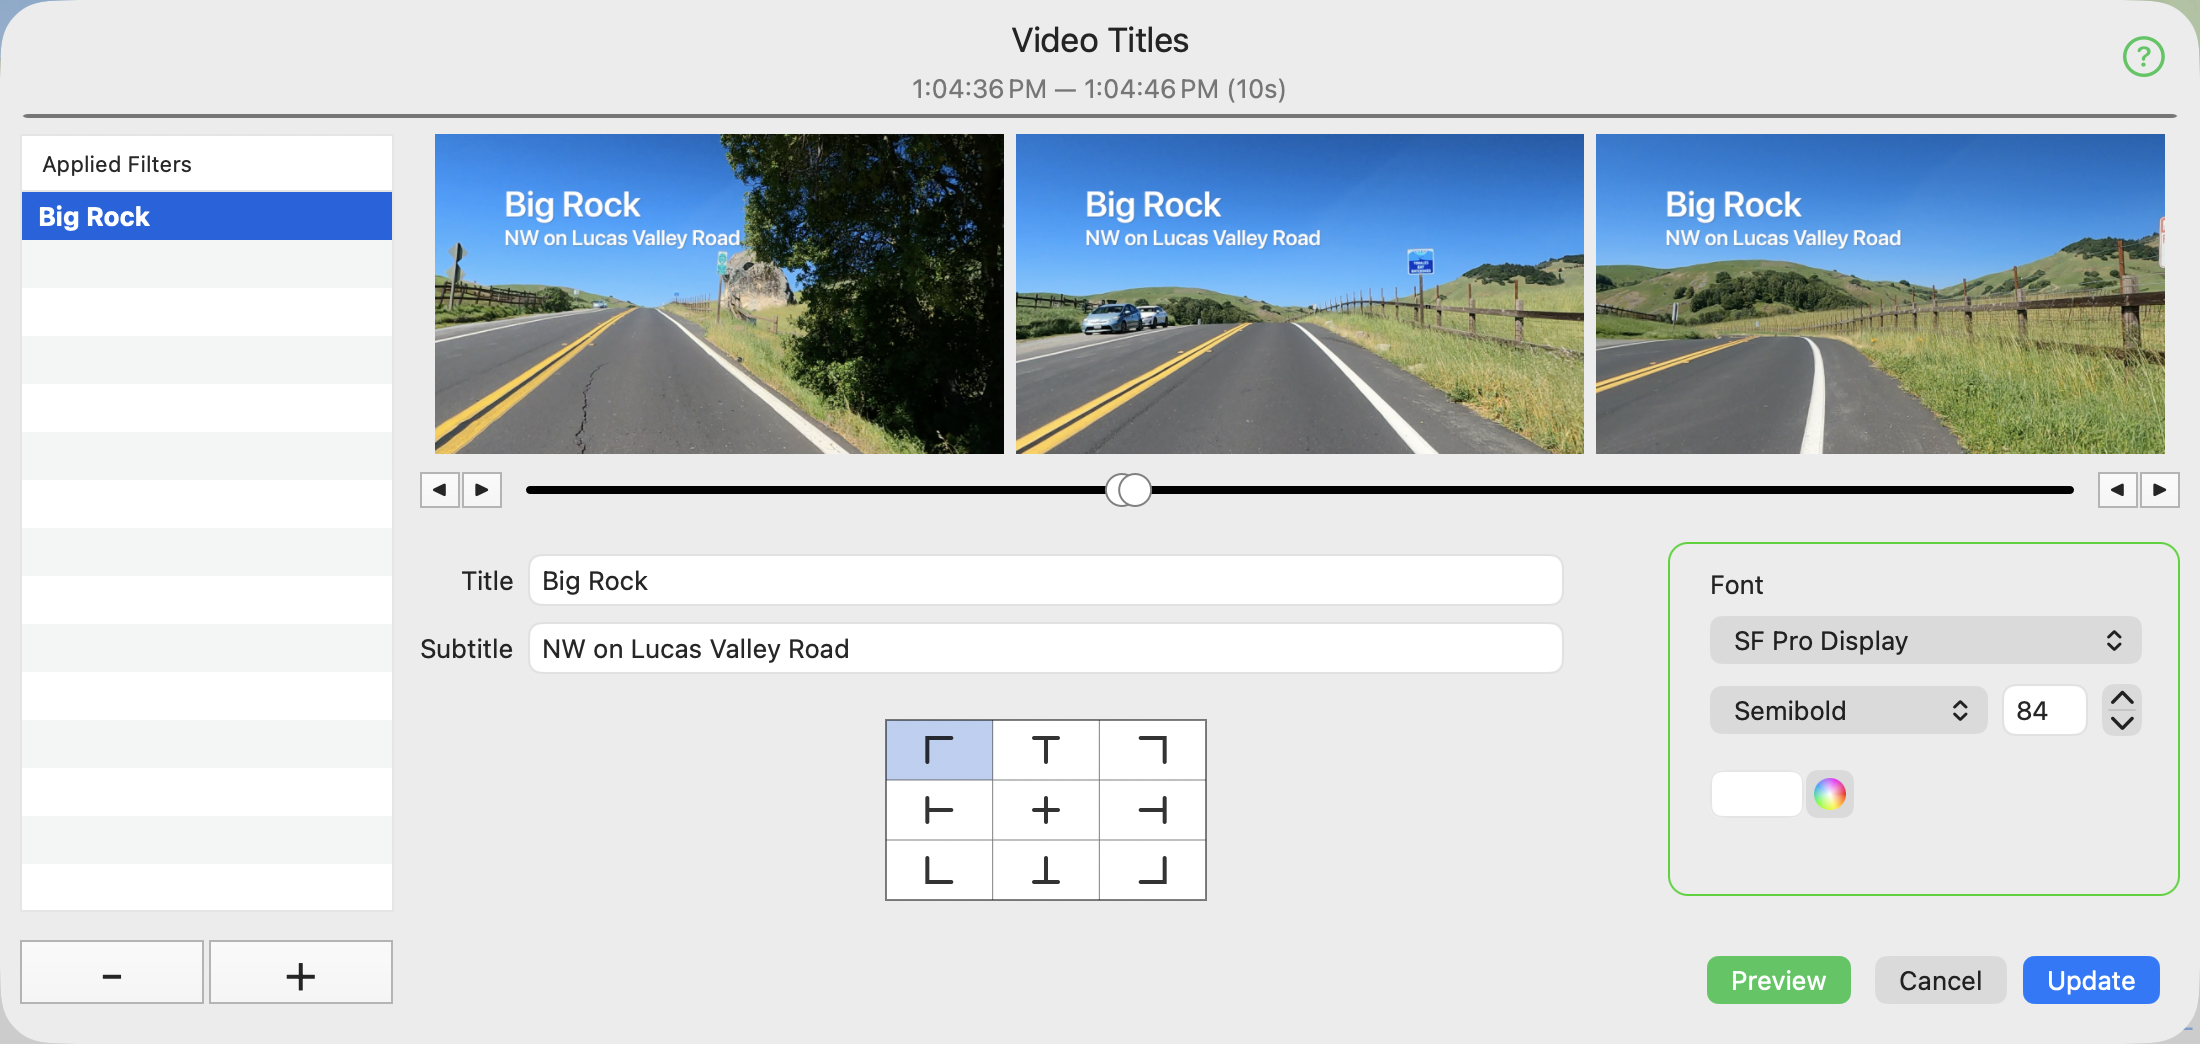
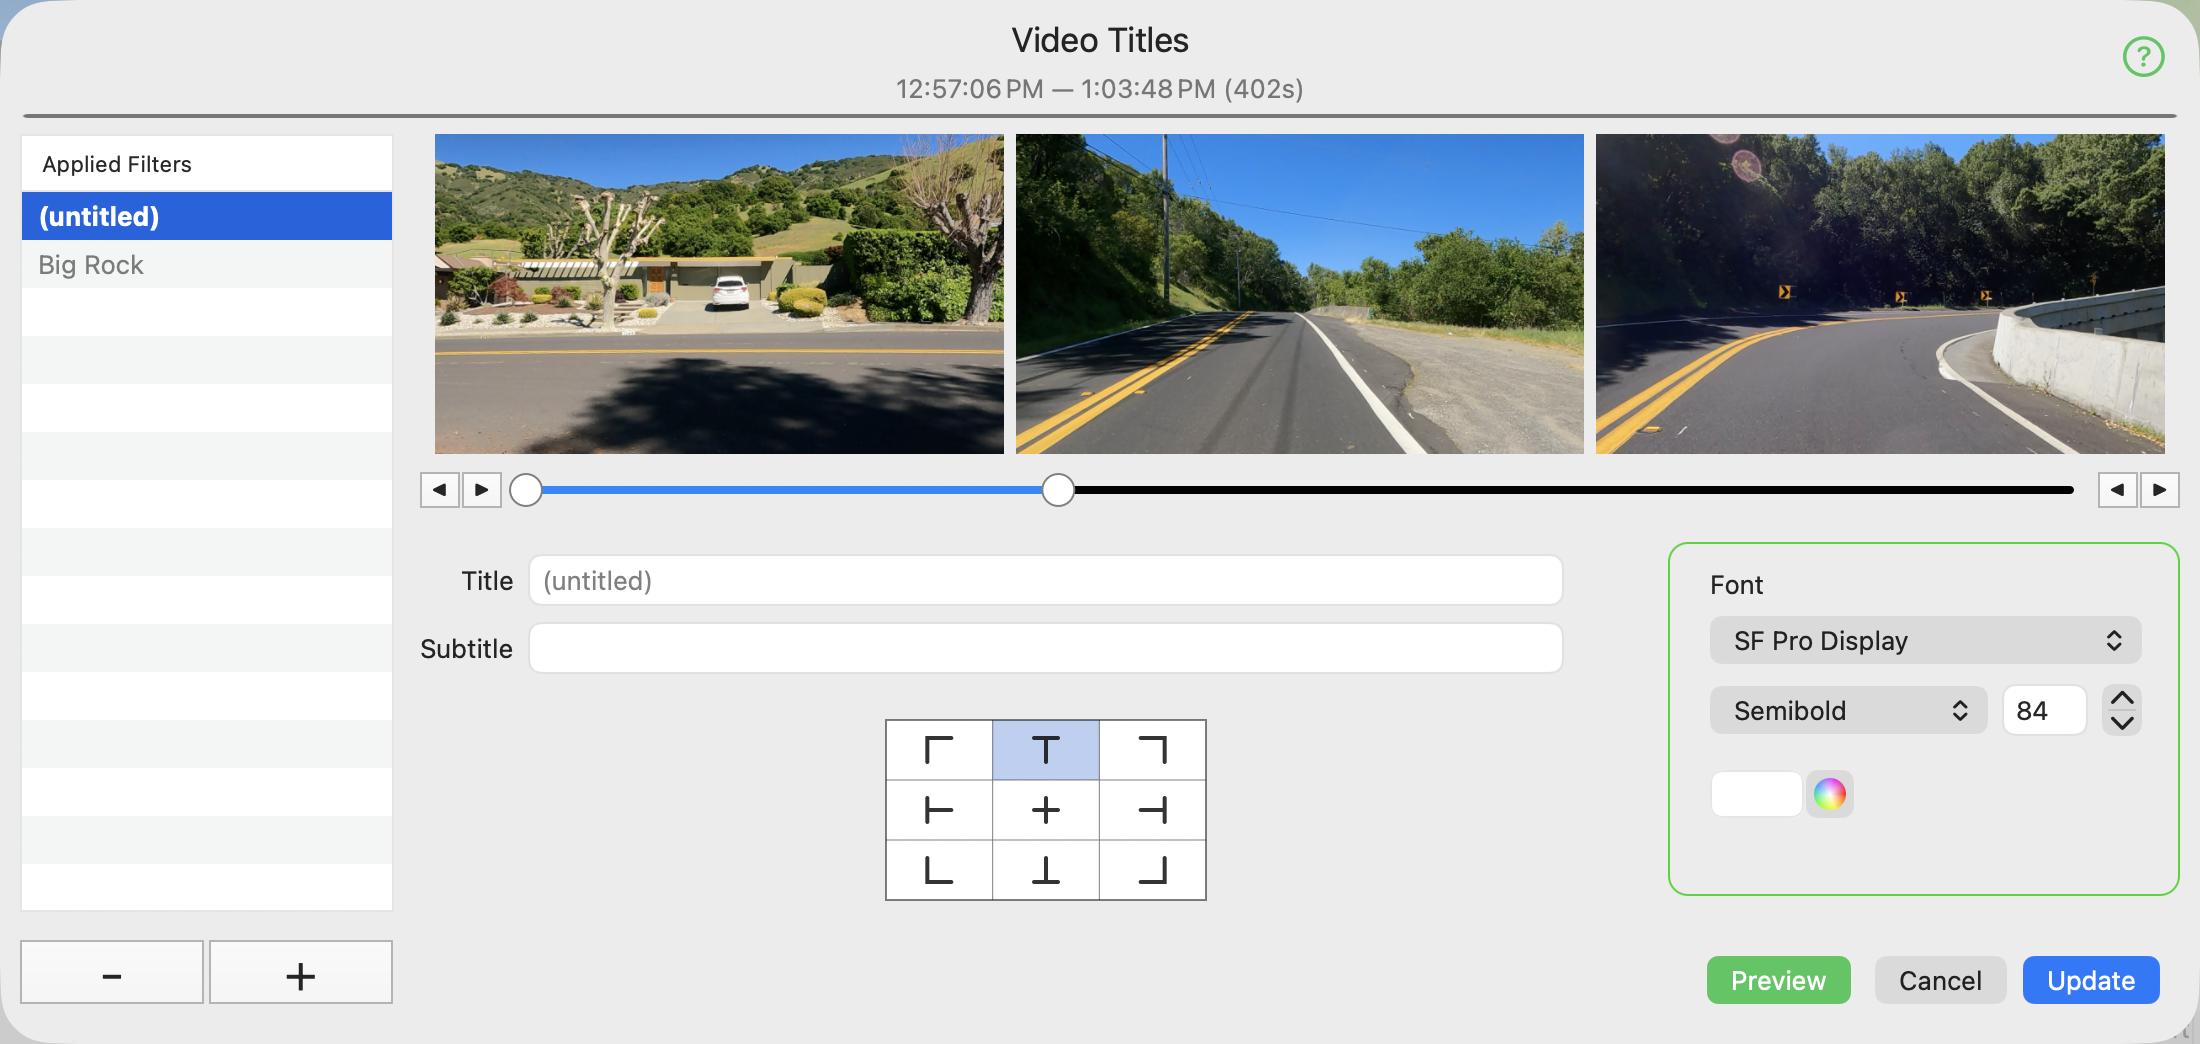
More GPX-V updating

diff --git a/GPX-V/main/index.html b/GPX-V/main/index.html
@@ -6,54 +6,54 @@
 <link rel="stylesheet" href="../tutorial.css">
 </head>
 <body>
-<a class="home" href="../index.html" title="Home"><img src="../home-icon.png" alt="Home"></a>
+<a class="home" href="../index.html" title="GPX-V Quick Reference Home"><img src="../home-icon.png" alt=""> GPX-V Quick Reference Home</a>
 <h1>GPX-V Main Window</h1>
 <p>This window is where your project comes together. Import video and GPX files, synchronize them,  apply filters, add titles, adjust speeds, and export synchronized video and gpx files.</p>
 <p>All actions are available through menu items, or through the action buttons at the bottom of the window.</p>
 <p>Move your pointer over the images below to see feature explanations.</p>
-<div class="tutorial" id="tutorial" style="aspect-ratio: 1320 / 882; max-width: 1100px;">
+<div class="tutorial" id="tutorial" style="aspect-ratio: 1579 / 890; max-width: 1100px;">
 <img src="screenshot.png" alt="Tutorial screenshot">
-<div class="hotspot topmost" id="item-0" data-index="0" data-title="The Apple Menu" data-explanation="The Apple menu" style="left:1.5152%; top:0.0000%; width:1.8939%; height:2.7211%;" title="The Apple Menu"></div>
-<div class="hotspot" id="item-1" data-index="1" data-title="The GPX-V Menu" data-explanation="shows About GPX-V, Settings..., Services, Hide GPX-V, Hide Others" style="left:3.4091%; top:0.0000%; width:4.0683%; height:2.7211%;" title="The GPX-V Menu"></div>
-<div class="hotspot" id="item-2" data-index="2" data-title="The File Menu" data-explanation="shows New, Open…, Open Recent, Import GPX..., Import Video..." style="left:7.4773%; top:0.0000%; width:2.5047%; height:2.7211%;" title="The File Menu"></div>
-<div class="hotspot" id="item-3" data-index="3" data-title="The Edit Menu" data-explanation="shows Undo, Redo, Cut, Copy Selected Rows, Paste" style="left:9.9820%; top:0.0000%; width:2.6787%; height:2.7211%;" title="The Edit Menu"></div>
-<div class="hotspot" id="item-4" data-index="4" data-title="The Format Menu" data-explanation="shows Font, Text" style="left:12.6607%; top:0.0000%; width:4.1627%; height:2.7211%;" title="The Format Menu"></div>
-<div class="hotspot" id="item-5" data-index="5" data-title="The Tools Menu" data-explanation="shows GPX, Video, Video &amp; GPX" style="left:16.8235%; top:0.0000%; width:3.3366%; height:2.7211%;" title="The Tools Menu"></div>
-<div class="hotspot" id="item-6" data-index="6" data-title="The View Menu" data-explanation="shows Show Tab Bar, Show All Tabs, Show Toolbar, Customize Toolbar…, Show Sidebar" style="left:20.1601%; top:0.0000%; width:3.1183%; height:2.7211%;" title="The View Menu"></div>
-<div class="hotspot" id="item-7" data-index="7" data-title="The Window Menu" data-explanation="shows Minimize, Minimize All, Zoom, Zoom All, Fill" style="left:23.2783%; top:0.0000%; width:4.5758%; height:2.7211%;" title="The Window Menu"></div>
-<div class="hotspot" id="item-8" data-index="8" data-title="The Help Menu" data-explanation="shows GPX-V Help, GPX-V Quick Reference" style="left:27.8542%; top:0.0000%; width:3.0298%; height:2.7211%;" title="The Help Menu"></div>
-<div class="hotspot" id="item-9" data-index="9" data-title="The GPX-V Document Window" data-explanation="displays video, map, elevation chart, trackpoint table, and document contents." style="left:1.5152%; top:8.1633%; width:96.9697%; height:89.5692%;" title="The GPX-V Document Window"></div>
-<div class="hotspot" id="item-10" data-index="10" data-title="The Video Player" data-explanation="plays the imported and merged video files." style="left:1.8939%; top:8.7302%; width:45.7576%; height:45.6916%;" title="The Video Player"></div>
-<div class="hotspot" id="item-11" data-index="11" data-title="The Video Filter Display" data-explanation="shows the application of video filters to the video. Click a filter to edit." style="left:5.3030%; top:52.1542%; width:38.9394%; height:1.3605%;" title="The Video Filter Display"></div>
-<div class="hotspot" id="item-12" data-index="12" data-title="Selected Video Frames" data-explanation="shows 1, 2, or 3 frames depending on how long the video selection is. First, middle, and last frames of the selection." style="left:20.5303%; top:41.7234%; width:8.4848%; height:9.0703%;" title="Selected Video Frames"></div>
-<div class="hotspot" id="item-13" data-index="13" data-title="The Selection Range Slider" data-explanation="can change the selected video and trackpoints. Slide, click or shift-click to change the selection." style="left:5.3030%; top:41.7234%; width:38.9394%; height:2.2676%;" title="The Selection Range Slider"></div>
-<div class="hotspot" id="item-14" data-index="14" data-title="The Route Map" data-explanation="displays your route." style="left:48.4091%; top:8.7302%; width:49.6970%; height:32.9932%;" title="The Route Map"></div>
-<div class="hotspot" id="item-15" data-index="15" data-title="The Elevation Chart" data-explanation="shows how your route changes elevation. Colors signal the gradient of the slope. Click to select a point along the route. Shift-click to select a range from the current selected point." style="left:48.4091%; top:41.7234%; width:49.6970%; height:12.6984%;" title="The Elevation Chart"></div>
-<div class="hotspot" id="item-16" data-index="16" data-title="The Map Type Control" data-explanation="switches between traffic and satellite views." style="left:89.3939%; top:10.4308%; width:4.9242%; height:2.7211%;" title="The Map Type Control"></div>
-<div class="hotspot" id="item-17" data-index="17" data-title="The Speed Change Control" data-explanation="shows any changes in speed that have been applied to the route. Click a filter to edit." style="left:49.1667%; top:52.1542%; width:48.1818%; height:1.3605%;" title="The Speed Change Control"></div>
-<div class="hotspot" id="item-18" data-index="18" data-title="The Trackpoint Table" data-explanation="lists the GPS trackpoints in order. Click a row to select the point, shift-click to select a range. Arrow keys work too. " style="left:45.0758%; top:55.6689%; width:52.9545%; height:36.3946%;" title="The Trackpoint Table"></div>
-<div class="hotspot" id="item-19" data-index="19" data-title="The Information View" data-explanation="shows information about the history of changes to your document, an analysis of any potential problems, and the current status of your document." style="left:1.8939%; top:55.5556%; width:42.3485%; height:36.6213%;" title="The Information View"></div>
-<div class="hotspot" id="item-20" data-index="20" data-title="The Information Option Control" data-explanation="displays the three classes of available information. Click to select the one you want to see." style="left:1.8939%; top:55.5556%; width:42.3485%; height:2.7211%;" title="The Information Option Control"></div>
-<div class="hotspot nofill" id="item-21" data-index="21" data-title="The Action Buttons" data-explanation="perform available actions. Grouped by video, video and GPS, and GPS." style="left:1.8939%; top:92.1769%; width:96.2121%; height:4.9887%;" title="The Action Buttons"></div>
-<div class="hotspot" id="item-22" data-index="22" data-title="The Import Video Button" data-explanation="imports one or more .mp4 video files" style="left:14.1288%; top:92.6304%; width:2.5758%; height:4.0816%;" title="The Import Video Button"></div>
-<div class="hotspot" id="item-23" data-index="23" data-title="The Remove Audio Button" data-explanation="deletes audio tracks" style="left:17.4621%; top:92.6304%; width:2.5758%; height:4.0816%;" title="The Remove Audio Button"></div>
-<div class="hotspot" id="item-24" data-index="24" data-title="The Trim From Start Button" data-explanation="trims from the start of the video until the first selected trackpoint" style="left:20.7955%; top:92.6304%; width:2.5758%; height:4.0816%;" title="The Trim From Start Button"></div>
-<div class="hotspot" id="item-25" data-index="25" data-title="The Trim Until End Button" data-explanation="trims from the last selected trackpoint until the end of the video" style="left:24.1288%; top:92.6304%; width:2.5758%; height:4.0816%;" title="The Trim Until End Button"></div>
-<div class="hotspot" id="item-26" data-index="26" data-title="The Video Filter Button" data-explanation="opens an editor to apply image filters to the selected video to compensate for shadows, glare, etc." style="left:27.4621%; top:92.6304%; width:2.5758%; height:4.0816%;" title="The Video Filter Button"></div>
-<div class="hotspot" id="item-27" data-index="27" data-title="The Titles Button" data-explanation="opens an editor to add text to the video for a selected segment" style="left:30.7955%; top:92.6304%; width:2.5758%; height:4.0816%;" title="The Titles Button"></div>
-<div class="hotspot" id="item-28" data-index="28" data-title="The Share Video Button" data-explanation="shares a frame or clip" style="left:34.1288%; top:92.6304%; width:2.5758%; height:4.0816%;" title="The Share Video Button"></div>
-<div class="hotspot" id="item-29" data-index="29" data-title="The Export Video Button" data-explanation="exports a syncrhonized .mp4 file" style="left:37.4621%; top:92.6304%; width:2.5758%; height:4.0816%;" title="The Export Video Button"></div>
-<div class="hotspot" id="item-30" data-index="30" data-title="The Speed Adjustment Button" data-explanation="opens an editor to apply speed adjustments to video and GPX simultaneously." style="left:43.3712%; top:92.6304%; width:2.5758%; height:4.0816%;" title="The Speed Adjustment Button"></div>
-<div class="hotspot" id="item-31" data-index="31" data-title="The Segment Delete Button" data-explanation="deletes selected trackpoints and video" style="left:46.7045%; top:92.6304%; width:2.5758%; height:4.0816%;" title="The Segment Delete Button"></div>
-<div class="hotspot" id="item-32" data-index="32" data-title="The Directional Synch Menu" data-explanation="controls the direction of immediate synchronization of video and trackpoints" style="left:50.0379%; top:93.3107%; width:3.5985%; height:2.7211%;" title="The Directional Synch Menu"></div>
-<div class="hotspot" id="item-33" data-index="33" data-title="The Import GPX Button" data-explanation="imports a GPX file" style="left:56.9697%; top:92.6304%; width:2.5758%; height:4.0816%;" title="The Import GPX Button"></div>
-<div class="hotspot" id="item-34" data-index="34" data-title="The Add Trackpoint Button" data-explanation="adds a trackpoint at the  location on the map at the time specified in video" style="left:60.3030%; top:92.6304%; width:2.5758%; height:4.0816%;" title="The Add Trackpoint Button"></div>
-<div class="hotspot" id="item-35" data-index="35" data-title="The Delete Trackpoints Button" data-explanation="deletes the selected trackpoints" style="left:63.6364%; top:92.6304%; width:2.5758%; height:4.0816%;" title="The Delete Trackpoints Button"></div>
-<div class="hotspot" id="item-36" data-index="36" data-title="The Trackpoint Edit Button" data-explanation="Edits the selected trackpoints" style="left:66.9697%; top:92.6304%; width:2.5758%; height:4.0816%;" title="The Trackpoint Edit Button"></div>
-<div class="hotspot" id="item-37" data-index="37" data-title="The Route Interpolation Button" data-explanation="interpolates a route between two selected points" style="left:70.3030%; top:92.6304%; width:2.5758%; height:4.0816%;" title="The Route Interpolation Button"></div>
-<div class="hotspot" id="item-38" data-index="38" data-title="The Elevation Button" data-explanation="Adjusts elevations and gradients" style="left:73.6364%; top:92.6304%; width:2.5758%; height:4.0816%;" title="The Elevation Button"></div>
-<div class="hotspot" id="item-39" data-index="39" data-title="The Export GPX Button" data-explanation="exports a synchronized GPX file" style="left:76.9697%; top:92.6304%; width:2.5758%; height:4.0816%;" title="The Export GPX Button"></div>
-<div class="hotspot" id="item-40" data-index="40" data-title="The Infer Checkbox" data-explanation="when checked, inferred trackpoints are displayed" style="left:80.3030%; top:93.3107%; width:5.5682%; height:2.7211%;" title="The Infer Checkbox"></div>
+<div class="hotspot topmost" id="item-0" data-index="0" data-title="The Apple Menu" data-explanation="The Apple menu" style="left:1.2666%; top:0.0000%; width:1.5833%; height:2.6966%;" title="The Apple Menu"></div>
+<div class="hotspot" id="item-1" data-index="1" data-title="The GPX-V Menu" data-explanation="shows About GPX-V, Settings..., Services, Hide GPX-V, Hide Others" style="left:2.8499%; top:0.0000%; width:3.4009%; height:2.6966%;" title="The GPX-V Menu"></div>
+<div class="hotspot" id="item-2" data-index="2" data-title="The File Menu" data-explanation="shows New, Open…, Open Recent, Import GPX..., Import Video..." style="left:6.2509%; top:0.0000%; width:2.0938%; height:2.6966%;" title="The File Menu"></div>
+<div class="hotspot" id="item-3" data-index="3" data-title="The Edit Menu" data-explanation="shows Undo, Redo, Cut, Copy Selected Rows, Paste" style="left:8.3447%; top:0.0000%; width:2.2394%; height:2.6966%;" title="The Edit Menu"></div>
+<div class="hotspot" id="item-4" data-index="4" data-title="The Format Menu" data-explanation="shows Font, Text" style="left:10.5840%; top:0.0000%; width:3.4799%; height:2.6966%;" title="The Format Menu"></div>
+<div class="hotspot" id="item-5" data-index="5" data-title="The Tools Menu" data-explanation="shows GPX, Video, Video &amp; GPX" style="left:14.0640%; top:0.0000%; width:2.7893%; height:2.6966%;" title="The Tools Menu"></div>
+<div class="hotspot" id="item-6" data-index="6" data-title="The View Menu" data-explanation="shows Show Toolbar, Customize Toolbar…, Show Sidebar, Enter Full Screen" style="left:16.8533%; top:0.0000%; width:2.6068%; height:2.6966%;" title="The View Menu"></div>
+<div class="hotspot" id="item-7" data-index="7" data-title="The Window Menu" data-explanation="shows Minimize, Minimize All, Zoom, Zoom All, Fill" style="left:19.4600%; top:0.0000%; width:3.8253%; height:2.6966%;" title="The Window Menu"></div>
+<div class="hotspot" id="item-8" data-index="8" data-title="The Help Menu" data-explanation="shows GPX-V Help, GPX-V Quick Reference" style="left:23.2853%; top:0.0000%; width:2.5328%; height:2.6966%;" title="The Help Menu"></div>
+<div class="hotspot" id="item-9" data-index="9" data-title="The GPX-V Document Window" data-explanation="displays video, map, elevation chart, trackpoint table, and document contents." style="left:1.2666%; top:8.0899%; width:97.4668%; height:89.6629%;" title="The GPX-V Document Window"></div>
+<div class="hotspot" id="item-10" data-index="10" data-title="The Video Player" data-explanation="plays the imported and merged video files." style="left:1.5833%; top:8.6517%; width:46.1051%; height:45.7865%;" title="The Video Player"></div>
+<div class="hotspot" id="item-11" data-index="11" data-title="The Video Filter Display" data-explanation="shows the application of video filters to the video. Click a filter to edit." style="left:8.1064%; top:52.1910%; width:33.0589%; height:1.3483%;" title="The Video Filter Display"></div>
+<div class="hotspot" id="item-12" data-index="12" data-title="Selected Video Frames" data-explanation="shows 1, 2, or 3 frames depending on how long the video selection is. First, middle, and last frames of the selection." style="left:21.0893%; top:41.8539%; width:7.0931%; height:8.9888%;" title="Selected Video Frames"></div>
+<div class="hotspot" id="item-13" data-index="13" data-title="The Selection Range Slider" data-explanation="can change the selected video and trackpoints. Slide, click or shift-click to change the selection." style="left:8.1064%; top:41.8539%; width:33.0589%; height:2.2472%;" title="The Selection Range Slider"></div>
+<div class="hotspot" id="item-14" data-index="14" data-title="The Route Map" data-explanation="displays your route." style="left:48.3217%; top:8.6517%; width:50.0950%; height:33.2022%;" title="The Route Map"></div>
+<div class="hotspot" id="item-15" data-index="15" data-title="The Elevation Chart" data-explanation="shows how your route changes elevation. Colors signal the gradient of the slope. Click to select a point along the route. Shift-click to select a range from the current selected point." style="left:48.3217%; top:41.8539%; width:50.0950%; height:12.5843%;" title="The Elevation Chart"></div>
+<div class="hotspot" id="item-16" data-index="16" data-title="The Map Type Control" data-explanation="switches between traffic and satellite views." style="left:91.1336%; top:10.3371%; width:4.1165%; height:2.6966%;" title="The Map Type Control"></div>
+<div class="hotspot" id="item-17" data-index="17" data-title="The Speed Change Control" data-explanation="shows any changes in speed that have been applied to the route. Click a filter to edit." style="left:48.9550%; top:52.1910%; width:48.8284%; height:1.3483%;" title="The Speed Change Control"></div>
+<div class="hotspot" id="item-18" data-index="18" data-title="The Trackpoint Table" data-explanation="lists the GPS trackpoints in order. Click a row to select the point, shift-click to select a range. Arrow keys work too. " style="left:44.9652%; top:55.6742%; width:53.3882%; height:36.4607%;" title="The Trackpoint Table"></div>
+<div class="hotspot" id="item-19" data-index="19" data-title="The Information View" data-explanation="shows information about the history of changes to your document, an analysis of any potential problems, and the current status of your document." style="left:1.5833%; top:55.5618%; width:42.6852%; height:36.6854%;" title="The Information View"></div>
+<div class="hotspot" id="item-20" data-index="20" data-title="The Information Option Control" data-explanation="displays the three classes of available information. Click to select the one you want to see." style="left:1.5833%; top:55.5618%; width:42.6852%; height:2.6966%;" title="The Information Option Control"></div>
+<div class="hotspot nofill" id="item-21" data-index="21" data-title="The Action Buttons" data-explanation="perform available actions. Grouped by video, video and GPS, and GPS." style="left:1.5833%; top:92.2472%; width:96.8334%; height:4.9438%;" title="The Action Buttons"></div>
+<div class="hotspot" id="item-22" data-index="22" data-title="The Import Video Button" data-explanation="imports one or more .mp4 video files" style="left:20.0127%; top:92.6966%; width:2.1533%; height:4.0449%;" title="The Import Video Button"></div>
+<div class="hotspot" id="item-23" data-index="23" data-title="The Remove Audio Button" data-explanation="deletes audio tracks" style="left:22.7992%; top:92.6966%; width:2.1533%; height:4.0449%;" title="The Remove Audio Button"></div>
+<div class="hotspot" id="item-24" data-index="24" data-title="The Trim From Start Button" data-explanation="trims from the start of the video until the first selected trackpoint" style="left:25.5858%; top:92.6966%; width:2.1533%; height:4.0449%;" title="The Trim From Start Button"></div>
+<div class="hotspot" id="item-25" data-index="25" data-title="The Trim Until End Button" data-explanation="trims from the last selected trackpoint until the end of the video" style="left:28.3724%; top:92.6966%; width:2.1533%; height:4.0449%;" title="The Trim Until End Button"></div>
+<div class="hotspot" id="item-26" data-index="26" data-title="The Video Filter Button" data-explanation="opens an editor to apply image filters to the selected video to compensate for shadows, glare, etc." style="left:31.1590%; top:92.6966%; width:2.1533%; height:4.0449%;" title="The Video Filter Button"></div>
+<div class="hotspot" id="item-27" data-index="27" data-title="The Titles Button" data-explanation="opens an editor to add text to the video for a selected segment" style="left:33.9455%; top:92.6966%; width:2.1533%; height:4.0449%;" title="The Titles Button"></div>
+<div class="hotspot" id="item-28" data-index="28" data-title="The Share Video Button" data-explanation="shares a frame or clip" style="left:36.7321%; top:92.6966%; width:2.1533%; height:4.0449%;" title="The Share Video Button"></div>
+<div class="hotspot" id="item-29" data-index="29" data-title="The Export Video Button" data-explanation="exports a syncrhonized .mp4 file" style="left:39.5187%; top:92.6966%; width:2.1533%; height:4.0449%;" title="The Export Video Button"></div>
+<div class="hotspot" id="item-30" data-index="30" data-title="The Speed Adjustment Button" data-explanation="opens an editor to apply speed adjustments to video and GPX simultaneously." style="left:44.4585%; top:92.6966%; width:2.1533%; height:4.0449%;" title="The Speed Adjustment Button"></div>
+<div class="hotspot" id="item-31" data-index="31" data-title="The Segment Delete Button" data-explanation="deletes selected trackpoints and video" style="left:47.2451%; top:92.6966%; width:2.1533%; height:4.0449%;" title="The Segment Delete Button"></div>
+<div class="hotspot" id="item-32" data-index="32" data-title="The Directional Synch Menu" data-explanation="controls the direction of immediate synchronization of video and trackpoints" style="left:50.0317%; top:93.3708%; width:3.0082%; height:2.6966%;" title="The Directional Synch Menu"></div>
+<div class="hotspot" id="item-33" data-index="33" data-title="The Import GPX Button" data-explanation="imports a GPX file" style="left:55.8265%; top:92.6966%; width:2.1533%; height:4.0449%;" title="The Import GPX Button"></div>
+<div class="hotspot" id="item-34" data-index="34" data-title="The Add Trackpoint Button" data-explanation="adds a trackpoint at the  location on the map at the time specified in video" style="left:58.6130%; top:92.6966%; width:2.1533%; height:4.0449%;" title="The Add Trackpoint Button"></div>
+<div class="hotspot" id="item-35" data-index="35" data-title="The Delete Trackpoints Button" data-explanation="deletes the selected trackpoints" style="left:61.3996%; top:92.6966%; width:2.1533%; height:4.0449%;" title="The Delete Trackpoints Button"></div>
+<div class="hotspot" id="item-36" data-index="36" data-title="The Trackpoint Edit Button" data-explanation="Edits the selected trackpoints" style="left:64.1862%; top:92.6966%; width:2.1533%; height:4.0449%;" title="The Trackpoint Edit Button"></div>
+<div class="hotspot" id="item-37" data-index="37" data-title="The Route Interpolation Button" data-explanation="interpolates a route between two selected points" style="left:66.9728%; top:92.6966%; width:2.1533%; height:4.0449%;" title="The Route Interpolation Button"></div>
+<div class="hotspot" id="item-38" data-index="38" data-title="The Elevation Button" data-explanation="Adjusts elevations and gradients" style="left:69.7593%; top:92.6966%; width:2.1533%; height:4.0449%;" title="The Elevation Button"></div>
+<div class="hotspot" id="item-39" data-index="39" data-title="The Export GPX Button" data-explanation="exports a synchronized GPX file" style="left:72.5459%; top:92.6966%; width:2.1533%; height:4.0449%;" title="The Export GPX Button"></div>
+<div class="hotspot" id="item-40" data-index="40" data-title="The Infer Checkbox" data-explanation="when checked, inferred trackpoints are displayed" style="left:75.3325%; top:93.3708%; width:4.6548%; height:2.6966%;" title="The Infer Checkbox"></div>
 </div>
 <div class="caption"><span class="title" id="capTitle"></span> <span id="capExplanation"></span></div>
 <script>

diff --git a/GPX-V/interpolation/index.html b/GPX-V/interpolation/index.html
@@ -14,14 +14,14 @@
 <p>The &quot;Bicycle&quot; and &quot;Automobile&quot; options use the same technology as Apple Maps to do the interpolation.</p>
 <p>When points are added, we contact appropriate web services (USGS, etc.) to obtain elevation data</p>
 <p>The output from this process can be significantly better than recorded GPS for services such as Kinomap and Rouvy.</p>
-<div class="tutorial" id="tutorial" style="aspect-ratio: 1087 / 600;">
+<div class="tutorial" id="tutorial" style="aspect-ratio: 1087 / 600; max-width: 1087px;">
 <img src="screenshot.png" alt="Tutorial screenshot">
-<div class="hotspot topmost" data-index="0" data-title="The Trackpoint Interpolation Editor" data-explanation="improves the route accuracy between two waypoints." style="left:0.0000%; top:0.0000%; width:100.0000%; height:100.0000%;" title="The Trackpoint Interpolation Editor"></div>
-<div class="hotspot" data-index="1" data-title="The Time Range Label" data-explanation="shows the video and trackpoint time interval you have selected." style="left:40.2944%; top:6.0000%; width:19.4572%; height:2.6667%;" title="The Time Range Label"></div>
-<div class="hotspot" data-index="2" data-title="The Map View" data-explanation="shows the existing route, the selected segment, and the expected interpolation." style="left:0.9200%; top:10.8333%; width:98.1601%; height:57.5000%;" title="The Map View"></div>
-<div class="hotspot" data-index="3" data-title="The Interpolation Type Control" data-explanation="chooses between Bicycle and Automobile routing using Apple Maps, or plain linear interpolation." style="left:38.6845%; top:84.3333%; width:26.8629%; height:4.0000%;" title="The Interpolation Type Control"></div>
-<div class="hotspot" data-index="4" data-title="The Interpolation Type Control" data-explanation="chooses between Bicycle and Automobile routing using Apple Maps, or plain linear interpolation." style="left:38.6845%; top:84.3333%; width:26.8629%; height:4.0000%;" title="The Interpolation Type Control"></div>
-<div class="hotspot" data-index="5" data-title="The Apply Button" data-explanation="inserts the interpolated trackpoints into your route." style="left:92.7323%; top:93.5000%; width:5.4278%; height:4.0000%;" title="The Apply Button"></div>
+<div class="hotspot topmost" id="item-0" data-index="0" data-title="The Trackpoint Interpolation Editor" data-explanation="improves the route accuracy between two waypoints." style="left:0.0000%; top:0.0000%; width:100.0000%; height:100.0000%;" title="The Trackpoint Interpolation Editor"></div>
+<div class="hotspot" id="item-1" data-index="1" data-title="The Time Range Label" data-explanation="shows the video and trackpoint time interval you have selected." style="left:40.1564%; top:6.0000%; width:19.6872%; height:2.6667%;" title="The Time Range Label"></div>
+<div class="hotspot" id="item-2" data-index="2" data-title="The Map View" data-explanation="shows the existing route, the selected segment, and the expected interpolation." style="left:0.9200%; top:10.8333%; width:98.1601%; height:57.5000%;" title="The Map View"></div>
+<div class="hotspot" id="item-3" data-index="3" data-title="The Interpolation Type Control" data-explanation="chooses between Bicycle and Automobile routing using Apple Maps, or plain linear interpolation." style="left:38.6845%; top:84.3333%; width:26.8629%; height:4.0000%;" title="The Interpolation Type Control"></div>
+<div class="hotspot" id="item-4" data-index="4" data-title="The Interpolation Type Control" data-explanation="chooses between Bicycle and Automobile routing using Apple Maps, or plain linear interpolation." style="left:38.6845%; top:84.3333%; width:26.8629%; height:4.0000%;" title="The Interpolation Type Control"></div>
+<div class="hotspot" id="item-5" data-index="5" data-title="The Apply Button" data-explanation="inserts the interpolated trackpoints into your route." style="left:92.7323%; top:93.5000%; width:5.4278%; height:4.0000%;" title="The Apply Button"></div>
 </div>
 <div class="caption"><span class="title" id="capTitle"></span> <span id="capExplanation"></span></div>
 <script>
@@ -32,7 +32,10 @@
   var active = null;
   function show(h){ if (active) active.classList.remove('active'); active = h; if (h) h.classList.add('active'); ct.textContent = h ? h.getAttribute('data-title') : ''; ce.textContent = h ? h.getAttribute('data-explanation') : ''; }
   hs.forEach(function(h){ h.addEventListener('mouseenter', function(){ show(h); }); h.addEventListener('click', function(){ show(h); }); });
-  if (hs.length > 0) show(hs[0]);
+  var initial = null;
+  if (location.hash && location.hash.length > 1) { initial = document.getElementById(location.hash.substring(1)); if (initial && !initial.classList.contains('hotspot')) initial = null; }
+  if (!initial && hs.length > 0) initial = hs[0];
+  if (initial) show(initial);
 })();
 </script>
 </body>

diff --git a/GPX-V/items-index.html b/GPX-V/items-index.html
@@ -2,12 +2,12 @@
 <html>
 <head>
 <meta charset="utf-8">
-<title>Index</title>
+<title>Index for GPX-V Quick Reference</title>
 <link rel="stylesheet" href="tutorial.css">
 </head>
 <body>
-<a class="home" href="index.html" title="Home"><img src="home-icon.png" alt="Home"></a>
-<h1>Index</h1>
+<a class="home" href="index.html" title="GPX-V Quick Reference Home"><img src="home-icon.png" alt=""> GPX-V Quick Reference Home</a>
+<h1>Index for GPX-V Quick Reference</h1>
 <nav class="letters">
 <a href="#entry-main-21">A</a>
 <a href="#entry-title-12">C</a>
@@ -106,6 +106,17 @@
 <li class="entry" id="entry-videofilter-0"><a class="entry-link" href="videofilter/index.html#item-0"><span class="entry-title">Video Filter Editor</span> <span class="entry-explanation">defines and applies video filters to segments of the video.</span></a></li>
 </ul>
 </section>
+<section class="page-section" id="page-interpolation">
+<h2><a href="interpolation/index.html">Interpolation Editor</a></h2>
+<ul class="entries">
+<li class="entry" id="entry-interpolation-5"><a class="entry-link" href="interpolation/index.html#item-5"><span class="entry-title">Apply Button</span> <span class="entry-explanation">inserts the interpolated trackpoints into your route.</span></a></li>
+<li class="entry" id="entry-interpolation-3"><a class="entry-link" href="interpolation/index.html#item-3"><span class="entry-title">Interpolation Type Control</span> <span class="entry-explanation">chooses between Bicycle and Automobile routing using Apple Maps, or plain linear interpolation.</span></a></li>
+<li class="entry" id="entry-interpolation-4"><a class="entry-link" href="interpolation/index.html#item-4"><span class="entry-title">Interpolation Type Control</span> <span class="entry-explanation">chooses between Bicycle and Automobile routing using Apple Maps, or plain linear interpolation.</span></a></li>
+<li class="entry" id="entry-interpolation-2"><a class="entry-link" href="interpolation/index.html#item-2"><span class="entry-title">Map View</span> <span class="entry-explanation">shows the existing route, the selected segment, and the expected interpolation.</span></a></li>
+<li class="entry" id="entry-interpolation-1"><a class="entry-link" href="interpolation/index.html#item-1"><span class="entry-title">Time Range Label</span> <span class="entry-explanation">shows the video and trackpoint time interval you have selected.</span></a></li>
+<li class="entry" id="entry-interpolation-0"><a class="entry-link" href="interpolation/index.html#item-0"><span class="entry-title">Trackpoint Interpolation Editor</span> <span class="entry-explanation">improves the route accuracy between two waypoints.</span></a></li>
+</ul>
+</section>
 <section class="page-section" id="page-library">
 <h2><a href="library/index.html">GPX-V Library</a></h2>
 <ul class="entries">
@@ -139,7 +150,7 @@
 <li class="entry" id="entry-library-5"><a class="entry-link" href="library/index.html#item-5"><span class="entry-title">Tools Menu</span> <span class="entry-explanation">shows GPX, Video, Video &amp; GPX</span></a></li>
 <li class="entry" id="entry-main-5"><a class="entry-link" href="main/index.html#item-5"><span class="entry-title">Tools Menu</span> <span class="entry-explanation">shows GPX, Video, Video &amp; GPX</span></a></li>
 <li class="entry" id="entry-library-6"><a class="entry-link" href="library/index.html#item-6"><span class="entry-title">View Menu</span> <span class="entry-explanation">shows Show Tab Bar, Show All Tabs, Show Toolbar, Customize Toolbar…, Show Sidebar</span></a></li>
-<li class="entry" id="entry-main-6"><a class="entry-link" href="main/index.html#item-6"><span class="entry-title">View Menu</span> <span class="entry-explanation">shows Show Tab Bar, Show All Tabs, Show Toolbar, Customize Toolbar…, Show Sidebar</span></a></li>
+<li class="entry" id="entry-main-6"><a class="entry-link" href="main/index.html#item-6"><span class="entry-title">View Menu</span> <span class="entry-explanation">shows Show Toolbar, Customize Toolbar…, Show Sidebar, Enter Full Screen</span></a></li>
 <li class="entry" id="entry-library-7"><a class="entry-link" href="library/index.html#item-7"><span class="entry-title">Window Menu</span> <span class="entry-explanation">shows Minimize, Minimize All, Zoom, Zoom All, Fill</span></a></li>
 <li class="entry" id="entry-main-7"><a class="entry-link" href="main/index.html#item-7"><span class="entry-title">Window Menu</span> <span class="entry-explanation">shows Minimize, Minimize All, Zoom, Zoom All, Fill</span></a></li>
 </ul>

diff --git a/GPX-V/tutorial.css b/GPX-V/tutorial.css
@@ -1,6 +1,6 @@
 body { font-family: -apple-system, BlinkMacSystemFont, "SF Pro Text", "Helvetica Neue", sans-serif; -webkit-font-smoothing: antialiased; font-size: 17px; line-height: 1.5; font-weight: 400; max-width: 1100px; margin: 0 auto; padding: 24px; background: #ffffff; color: #1d1d1f; }
-h1 { font-family: -apple-system, BlinkMacSystemFont, "SF Pro Display", "Helvetica Neue", sans-serif; font-size: 28pt; font-weight: 600; letter-spacing: -0.02em; line-height: 1.15; margin: 8px 0 8px; color: #1d1d1f; }
-p { font-weight: 400; }
+h1 { font-family: -apple-system, BlinkMacSystemFont, "SF Pro Display", "Helvetica Neue", sans-serif; font-size: 28pt; font-weight: 480; letter-spacing: -0.02em; line-height: 1.15; margin: 8px 0 8px; color: #1d1d1f; text-align: center; }
+p { font-weight: 400; text-align: center;}
 .tutorial { position: relative; display: block; width: 100%; max-width: 1100px; margin: 0 auto; }
 .tutorial img { display: block; width: 100%; height: 100%; }
 .hotspot { position: absolute; border: 3px solid transparent; border-radius: 6px; box-sizing: border-box; cursor: pointer; transition: background-color 0.15s, border-color 0.15s; }
@@ -10,16 +10,17 @@ p { font-weight: 400; }
 .hotspot.nofill:hover, .hotspot.nofill.active { background-color: transparent; }
 .caption { margin: 14px auto 0; min-height: 3em; font-size: 13pt; font-weight: 400; line-height: 1.5; max-width: 720px; color: #1d1d1f; }
 .caption .title { font-weight: 500; }
-a.home { display: inline-block; margin-bottom: 14px; text-decoration: none; }
-a.home img { width: 48px; height: 48px; display: block; }
+a.home { display: inline-flex; align-items: center; gap: 10px; margin-bottom: 14px; text-decoration: none; color: #1d1d1f; font-size: 15pt; font-weight: 500; }
+a.home img { width: 48px; height: 48px; flex-shrink: 0; }
 a.home:hover img { opacity: 0.8; }
+a.home:hover { text-decoration: underline; }
 .main-subtitle { margin: 0 auto 20px; font-size: 17pt; font-weight: 400; line-height: 1.35; color: #6e6e73; letter-spacing: -0.01em; max-width: 760px; }
 .tutorials-list { display: flex; flex-direction: column; gap: 14px; max-width: 960px; margin: 20px auto 0; }
 a.tutorial-card { display: flex; align-items: center; gap: 20px; padding: 12px 16px; background: #ffffff; border: 1px solid #e5e5ea; border-radius: 10px; text-decoration: none; color: inherit; transition: background-color 0.15s, border-color 0.15s; }
 a.tutorial-card:hover { background-color: #f5f5f7; border-color: #d2d2d7; }
 .tutorial-card .thumb { width: 240px; height: 150px; object-fit: cover; border-radius: 6px; box-shadow: 0 1px 3px rgba(0,0,0,0.08); flex-shrink: 0; background: #ffffff; }
 .tutorial-card .card-title { font-size: 15pt; font-weight: 500; letter-spacing: -0.01em; color: #1d1d1f; }
-a.items-index-link { display: inline-block; margin: 0 0 18px; padding: 8px 14px; border: 1px solid #e5e5ea; border-radius: 8px; text-decoration: none; color: #1d1d1f; font-size: 14pt; font-weight: 500; background: #ffffff; transition: background-color 0.15s, border-color 0.15s; }
+a.items-index-link { display: block; width: fit-content; margin: 0 auto 18px; padding: 8px 14px; border: 1px solid #e5e5ea; border-radius: 8px; text-decoration: none; color: #1d1d1f; font-size: 14pt; font-weight: 500; background: #ffffff; transition: background-color 0.15s, border-color 0.15s; }
 a.items-index-link:hover { background-color: #f5f5f7; border-color: #d2d2d7; }
 .letters { display: flex; flex-wrap: wrap; gap: 6px; margin: 0 auto 18px; max-width: 960px; justify-content: center; }
 .letters a { display: inline-block; min-width: 28px; padding: 4px 8px; text-align: center; border: 1px solid #e5e5ea; border-radius: 6px; text-decoration: none; color: #1d1d1f; font-size: 13pt; font-weight: 500; background: #ffffff; transition: background-color 0.15s, border-color 0.15s; }

diff --git a/GPX-V/title/index.html b/GPX-V/title/index.html
@@ -6,7 +6,7 @@
 <link rel="stylesheet" href="../tutorial.css">
 </head>
 <body>
-<a class="home" href="../index.html" title="Home"><img src="../home-icon.png" alt="Home"></a>
+<a class="home" href="../index.html" title="GPX-V Quick Reference Home"><img src="../home-icon.png" alt=""> GPX-V Quick Reference Home</a>
 <h1>The Title Editor</h1>
 <p>This editor manages titles and subtitles inserted over video segments.</p>
 <p>You can adjust placement, font name, style, size, and color, and see a preview of each title you apply.</p>
@@ -14,7 +14,7 @@
 <div class="tutorial" id="tutorial" style="aspect-ratio: 1100 / 522; max-width: 1100px;">
 <img src="screenshot.png" alt="Tutorial screenshot">
 <div class="hotspot topmost" id="item-0" data-index="0" data-title="The Title Editor" data-explanation="inserts and formats text into segments of the video." style="left:0.0000%; top:0.0000%; width:100.0000%; height:100.0000%;" title="The Title Editor"></div>
-<div class="hotspot" id="item-1" data-index="1" data-title="The Range Label" data-explanation="shows the start, finish and length of the video segment to which the title will be applied." style="left:41.0909%; top:6.8966%; width:17.8182%; height:3.0651%;" title="The Range Label"></div>
+<div class="hotspot" id="item-1" data-index="1" data-title="The Range Label" data-explanation="shows the start, finish and length of the video segment to which the title will be applied." style="left:40.3636%; top:6.8966%; width:19.3182%; height:3.0651%;" title="The Range Label"></div>
 <div class="hotspot" id="item-2" data-index="2" data-title="The Table View" data-explanation="lists the titles you have applied to the video." style="left:1.0000%; top:18.3908%; width:16.8182%; height:68.7739%;" title="The Table View"></div>
 <div class="hotspot" id="item-3" data-index="3" data-title="The Delete Button" data-explanation="deletes the selected title." style="left:0.9091%; top:89.8467%; width:8.4091%; height:6.5134%;" title="The Delete Button"></div>
 <div class="hotspot" id="item-4" data-index="4" data-title="The Add Button" data-explanation="adds a new title to the list." style="left:9.5000%; top:89.8467%; width:8.4091%; height:6.5134%;" title="The Add Button"></div>

diff --git a/GPX-V/index.html b/GPX-V/index.html
@@ -9,7 +9,6 @@
 <h1>GPX-V Quick Reference</h1>
 <p class="main-subtitle">Go Pro Video?  Strava GPX file? GPX-V is your one-stop solution for synchronized, filtered files for upload to Kinomap, Rouvy and others.</p>
 <p>Click any of the items below to get a detailed, interactive explanation of all the controls for that feature.</p>
-<a class="items-index-link" href="items-index.html">Index</a>
 <div class="tutorials-list">
 <a class="tutorial-card" href="main/index.html">
   <img class="thumb" src="main/screenshot.png" alt="">
@@ -36,5 +35,6 @@
   <div class="card-title">The GPX-V Library</div>
 </a>
 </div>
+<br/><br/><a class="items-index-link" href="items-index.html">Index for GPX-V Quick Reference</a>
 </body>
 </html>

diff --git a/cloudKitDaily.html b/cloudKitDaily.html
@@ -1,6 +1,6 @@
 <!DOCTYPE html>
 <html>
 <head>
-<meta http-equiv="refresh" content="0; url=https://icloud.developer.apple.com/dashboard/database/teams/Y589738LGJ/containers/iCloud.com.359north.nox.analytics/environments/PRODUCTION/records?recordType=eventSummary&sorts%5B0%5D.fieldName=___modTime&sorts%5B0%5D.order=DESC&filters%5B1%5D.fieldName=eventCode&filters%5B1%5D.type=EQUALS&filters%5B1%5D.fieldValue.type=stringType&filters%5B1%5D.fieldValue.value=postDailyUsage&using=queryRecords&zone=_defaultZone&database=public&filters%5B2%5D.fieldName=yyyymmddCode&filters%5B2%5D.type=EQUALS&filters%5B2%5D.fieldValue.type=stringType&fields=counter&fields=deviceType&fields=eventCode&fields=languageCode&fields=timeZone&fields=yyyymmddCode&fields=appID&fields=appVersion&fields=appBuildNumber&filters%5B3%5D.fieldName=appID&filters%5B3%5D.type=EQUALS&filters%5B3%5D.fieldValue.type=stringType&filters%5B3%5D.fieldValue.value=com.359north.maxdaylight2&filters%5B2%5D.fieldValue.value=2026-04-22">
+<meta http-equiv="refresh" content="0; url=https://icloud.developer.apple.com/dashboard/database/teams/Y589738LGJ/containers/iCloud.com.359north.nox.analytics/environments/PRODUCTION/records?recordType=eventSummary&sorts%5B0%5D.fieldName=___modTime&sorts%5B0%5D.order=DESC&filters%5B1%5D.fieldName=eventCode&filters%5B1%5D.type=EQUALS&filters%5B1%5D.fieldValue.type=stringType&filters%5B1%5D.fieldValue.value=postDailyUsage&using=queryRecords&zone=_defaultZone&database=public&filters%5B2%5D.fieldName=yyyymmddCode&filters%5B2%5D.type=EQUALS&filters%5B2%5D.fieldValue.type=stringType&fields=counter&fields=deviceType&fields=eventCode&fields=languageCode&fields=timeZone&fields=yyyymmddCode&fields=appID&fields=appVersion&fields=appBuildNumber&filters%5B3%5D.fieldName=appID&filters%5B3%5D.type=EQUALS&filters%5B3%5D.fieldValue.type=stringType&filters%5B3%5D.fieldValue.value=com.359north.maxdaylight2&filters%5B2%5D.fieldValue.value=2026-05-27">
 </head>
 </html>